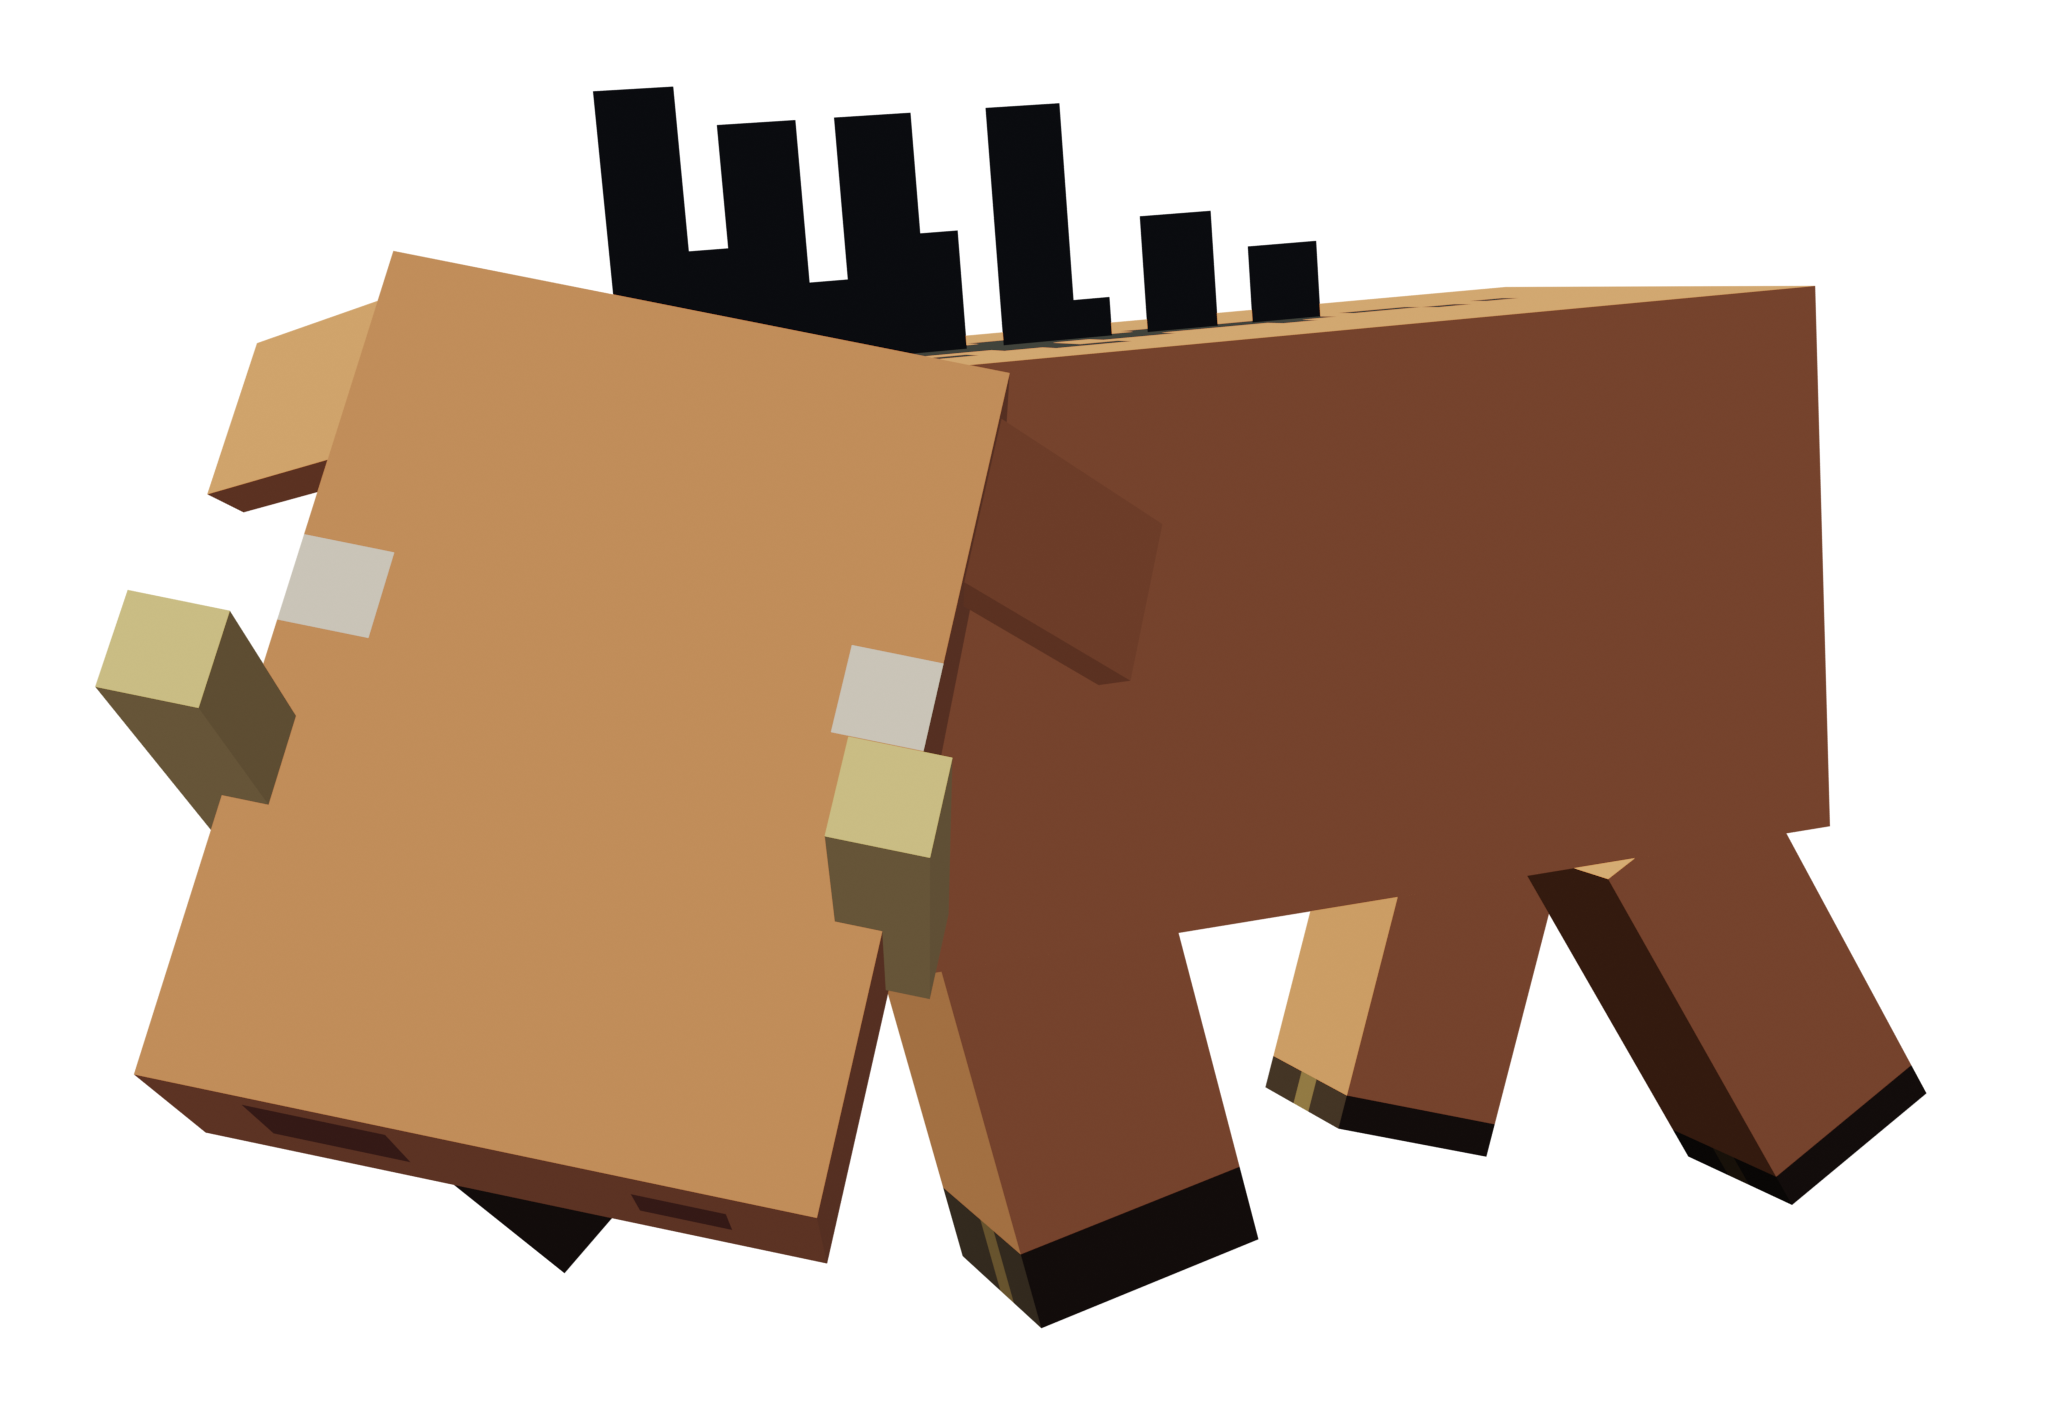
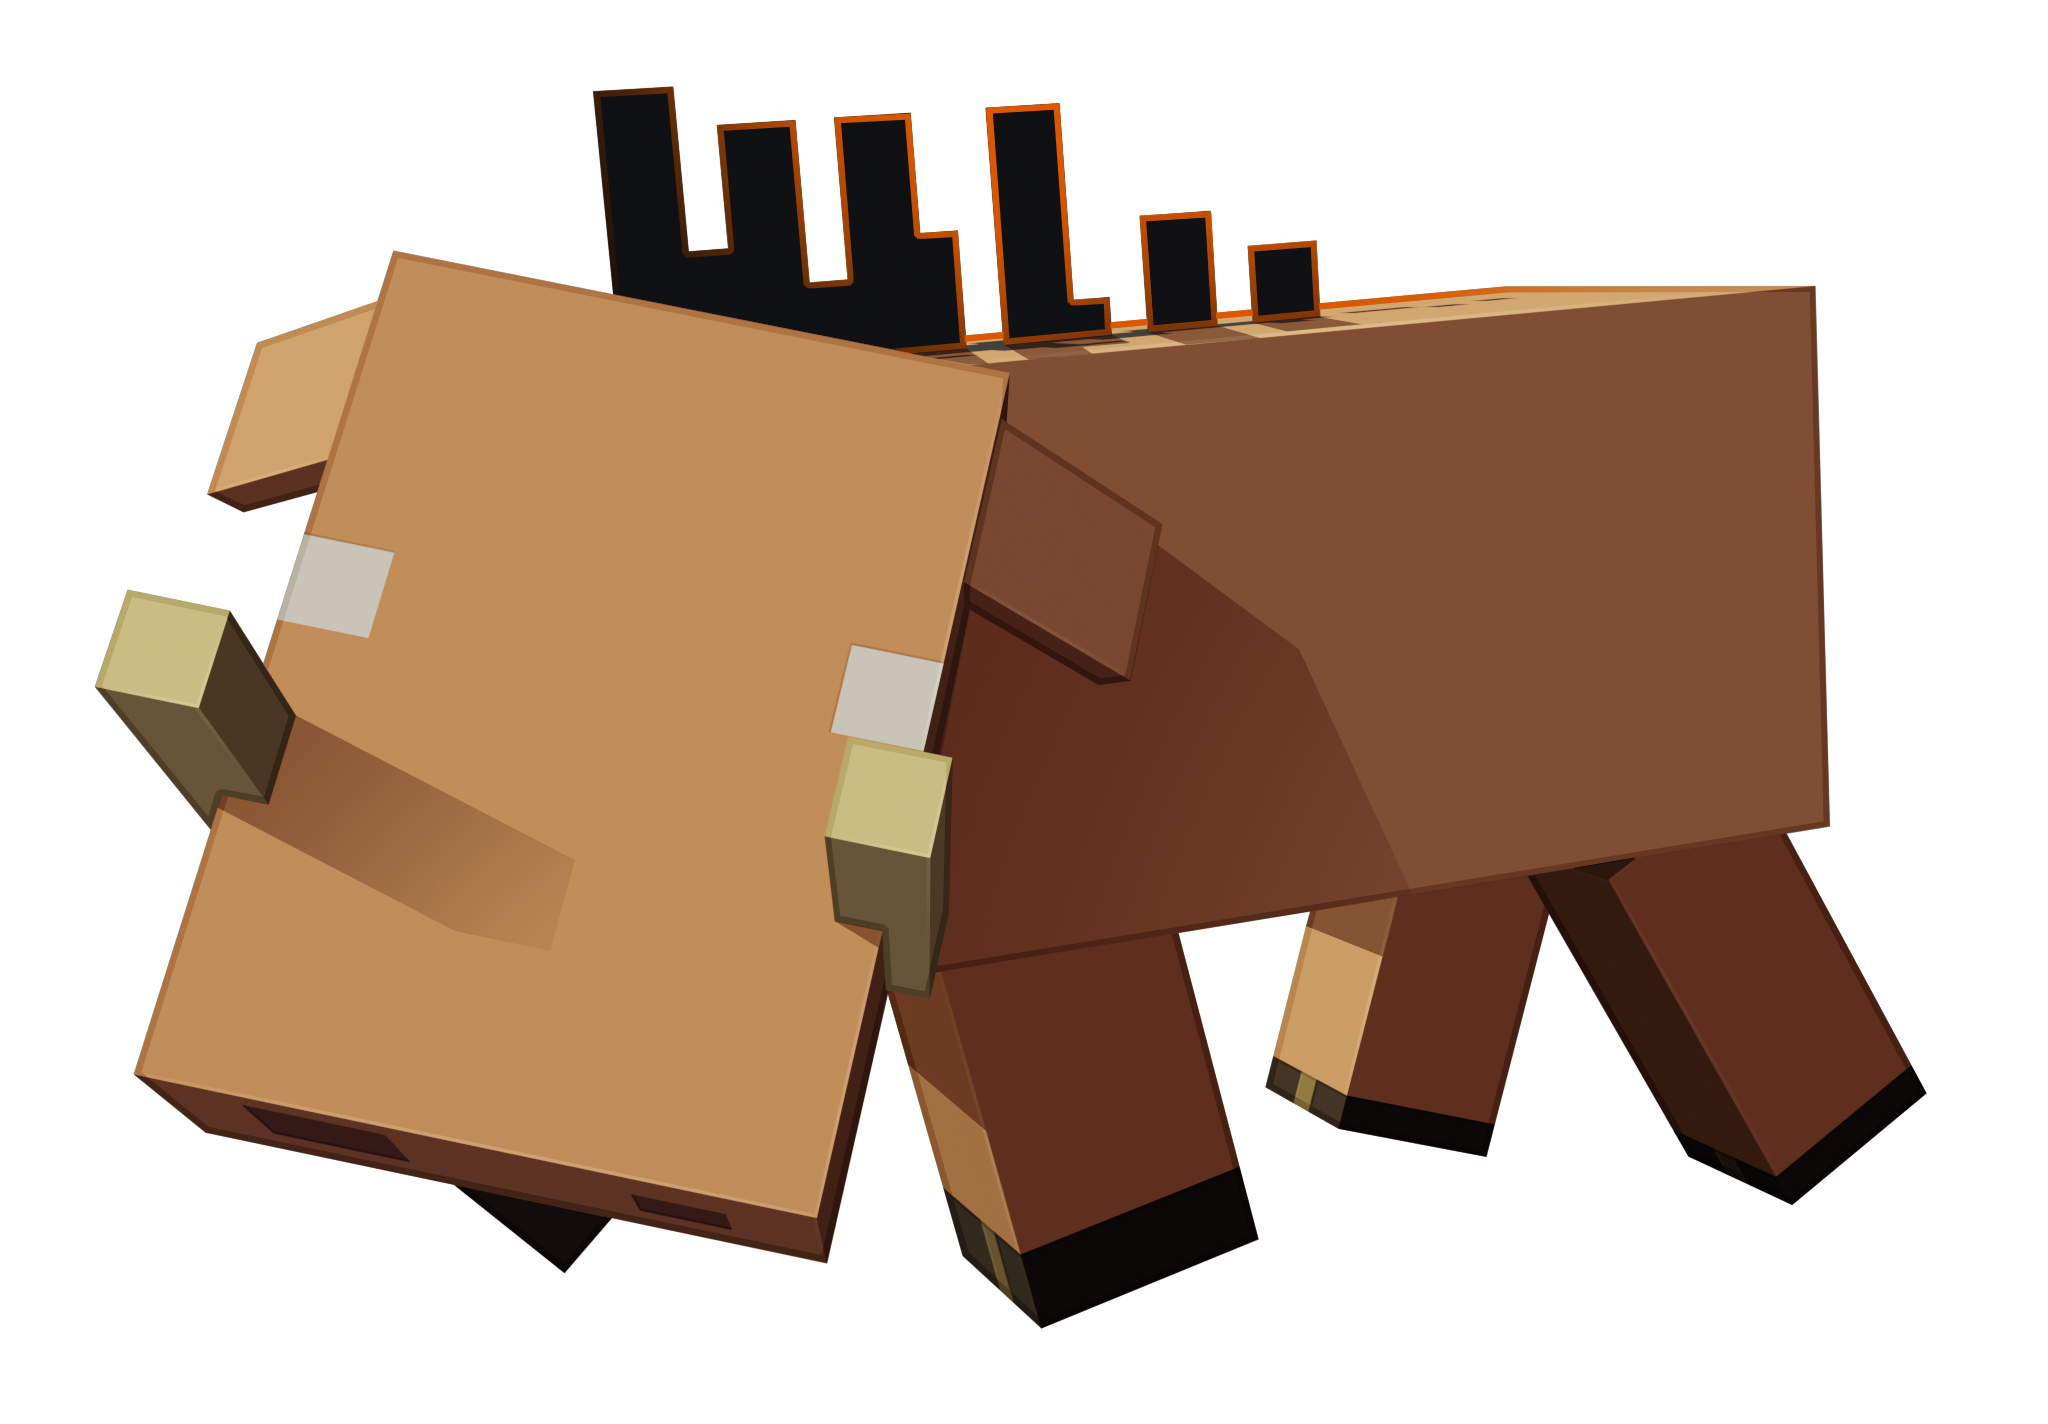
feat: new hoglin

diff --git a/src/routes/+page.svelte b/src/routes/+page.svelte
@@ -1,5 +1,5 @@
 <script lang="ts">
-    import { _ } from 'svelte-i18n';
+    import {_} from 'svelte-i18n';
     import HoglinImg from "$lib/assets/img/hoglin.png";
 
     const links = {
@@ -12,7 +12,7 @@
 <div class="content-wrapper">
     <div class="content">
         <div class="info">
-            <h1>{$_("home.teamdurt")}</h1>
+            <h1>Team Durt</h1>
             <p>{$_("home.about_us")}</p>
             <div class="icons">
                 <a href={links.discord} aria-label="Join our Discord">
@@ -56,7 +56,45 @@
             </div>
         </div>
         <div class="picture">
-            <img src={HoglinImg} alt="Hoglin">
+            <enhanced:img src="$lib/assets/img/hoglin.png" alt="Hoglin" sizes="min(400px; 100%)"/>
+            <svg class="light" viewBox="0 0 286 209" fill="none" xmlns="http://www.w3.org/2000/svg">
+                <g filter="url(#filter0_f_4786_3173)">
+                    <ellipse cx="102.473" cy="64.8082" rx="102.473" ry="64.8082"
+                             transform="matrix(0.981735 -0.190254 0.330248 0.943894 21 62.9919)" fill="#8D3300"
+                             fill-opacity="0.4"/>
+                </g>
+                <g filter="url(#filter1_f_4786_3173)">
+                    <ellipse cx="62.2668" cy="39.0828" rx="62.2668" ry="39.0828"
+                             transform="matrix(0.981735 -0.190254 0.330248 0.943894 65 87.693)" fill="#FF7A00"/>
+                </g>
+                <defs>
+                    <filter id="filter0_f_4786_3173" x="0.130859" y="0.447083" width="285.748" height="208.442"
+                            filterUnits="userSpaceOnUse" color-interpolation-filters="sRGB">
+                        <feFlood flood-opacity="0" result="BackgroundImageFix"/>
+                        <feBlend mode="normal" in="SourceGraphic" in2="BackgroundImageFix" result="shape"/>
+                        <feGaussianBlur stdDeviation="20" result="effect1_foregroundBlur_4786_3173"/>
+                    </filter>
+                    <filter id="filter1_f_4786_3173" x="36.5469" y="33.9806" width="204.98" height="157.512"
+                            filterUnits="userSpaceOnUse" color-interpolation-filters="sRGB">
+                        <feFlood flood-opacity="0" result="BackgroundImageFix"/>
+                        <feBlend mode="normal" in="SourceGraphic" in2="BackgroundImageFix" result="shape"/>
+                        <feGaussianBlur stdDeviation="20" result="effect1_foregroundBlur_4786_3173"/>
+                    </filter>
+                </defs>
+            </svg>
+            <svg class="shadow" viewBox="0 0 528 192" fill="none" xmlns="http://www.w3.org/2000/svg">
+                <g filter="url(#filter0_f_4786_3168)">
+                    <ellipse cx="264" cy="96" rx="200" ry="32" fill="#A14F35" fill-opacity="0.2"/>
+                </g>
+                <defs>
+                    <filter id="filter0_f_4786_3168" x="0" y="0" width="528" height="192" filterUnits="userSpaceOnUse"
+                            color-interpolation-filters="sRGB">
+                        <feFlood flood-opacity="0" result="BackgroundImageFix"/>
+                        <feBlend mode="normal" in="SourceGraphic" in2="BackgroundImageFix" result="shape"/>
+                        <feGaussianBlur stdDeviation="32" result="effect1_foregroundBlur_4786_3168"/>
+                    </filter>
+                </defs>
+            </svg>
         </div>
         <div class="icons">
             <a href={links.discord} aria-label="Join our Discord">
@@ -113,6 +151,7 @@
     align-items: center;
 
     background-color: #131313;
+    overflow: hidden;
   }
 
   .content, .info {
@@ -194,12 +233,37 @@
   }
 
   .picture {
+    position: relative;
     width: 100%;
     height: fit-content;
 
-    & > img {
+    & img {
+      position: relative;
       width: 100%;
       height: auto;
+      z-index: 1;
+    }
+
+    & > .light {
+      position: absolute;
+      top: 0;
+      right: 11%;
+      transform: translateY(-11%);
+
+      width: 71.5%;
+      height: fit-content;
+      z-index: 0;
+    }
+
+    & > .shadow {
+      position: absolute;
+      bottom: 0;
+      left: 50%;
+      transform: translateX(-50%) translateY(25%);
+
+      width: 132%;
+      height: fit-content;
+      z-index: 0;
     }
   }
 

diff --git a/vite.config.ts b/vite.config.ts
@@ -1,6 +1,10 @@
 import { sveltekit } from '@sveltejs/kit/vite';
+import { enhancedImages } from '@sveltejs/enhanced-img';
 import { defineConfig } from 'vite';
 
 export default defineConfig({
-	plugins: [sveltekit()]
+	plugins: [
+		enhancedImages(),
+		sveltekit()
+	]
 });
